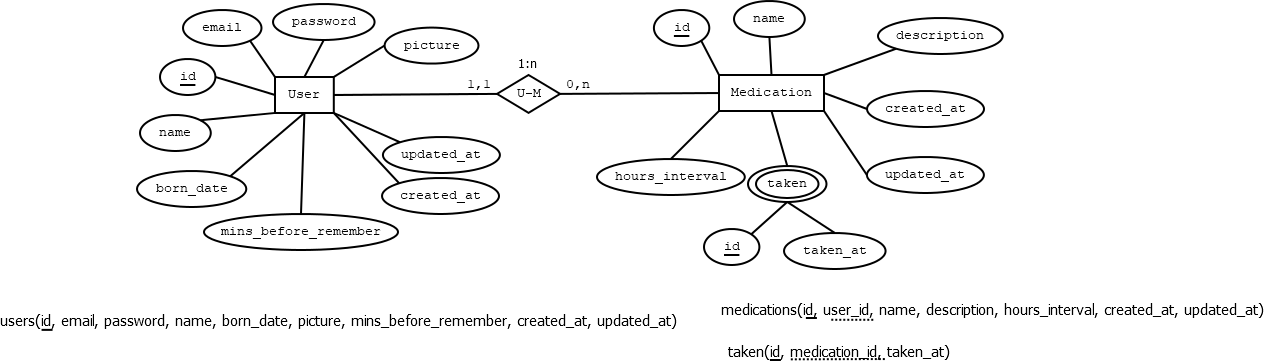
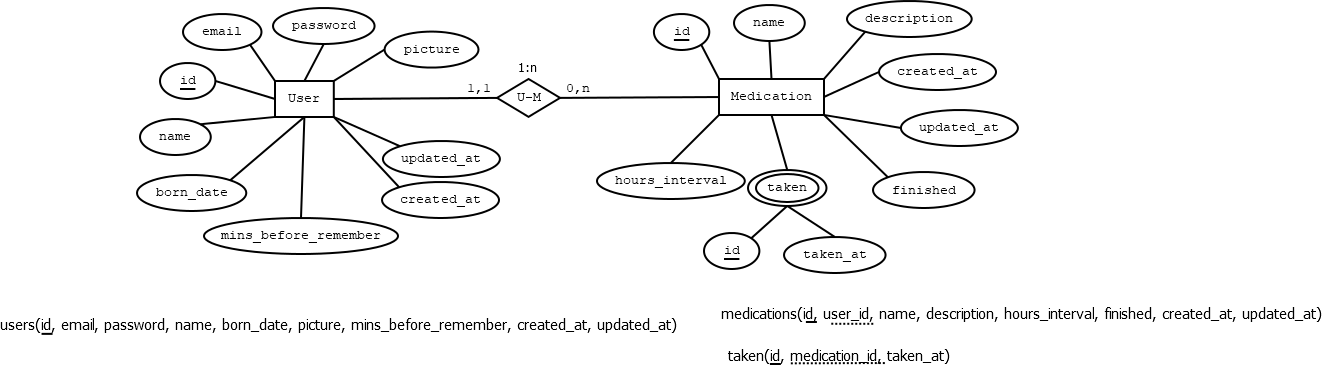
adding medication finished field

Changed region(s): [[0.0917, 0.0, 0.7947, 0.7618], [0.0, 0.8227, 1.0, 0.9141], [0.5502, 0.9446, 0.7641, 1.0]]

diff --git a/MiMedicacion/src/main/java/com/miguel/mimedicacion/dao/mysql/MedicationDAOImpl.java b/MiMedicacion/src/main/java/com/miguel/mimedicacion/dao/mysql/MedicationDAOImpl.java
@@ -24,7 +24,7 @@ public class MedicationDAOImpl implements MedicationDAO {
     private static final String ALLFROMAUSER = "SELECT * FROM medications WHERE user_id = ?";
     private static final String INSERT = "INSERT INTO medications(user_id, name, description, hours_interval) values(?,?,?,?)";
     private static final String UPDATE = "UPDATE medications "+
-            "SET name = ?, description = ?, hours_interval = ? WHERE id = ?";
+            "SET name = ?, description = ?, hours_interval = ?, finished = ? WHERE id = ?";
     private static final String DELETE = "DELETE FROM medications WHERE id = ?";
     
     // DB
@@ -55,6 +55,7 @@ public class MedicationDAOImpl implements MedicationDAO {
                 med.setName(rs.getString("name"));
                 med.setDescription(rs.getString("description"));
                 med.setHours_interval(rs.getInt("hours_interval"));
+                med.setFinished(rs.getBoolean("finished"));
                 med.setCreated_at(rs.getTimestamp("created_at"));
                 med.setUpdated_at(rs.getTimestamp("updated_at"));
             }
@@ -89,6 +90,7 @@ public class MedicationDAOImpl implements MedicationDAO {
                 med.setName(rs.getString("name"));
                 med.setDescription(rs.getString("description"));
                 med.setHours_interval(rs.getInt("hours_interval"));
+                med.setFinished(rs.getBoolean("finished"));
                 med.setCreated_at(rs.getTimestamp("created_at"));
                 med.setUpdated_at(rs.getTimestamp("updated_at"));
                 meds.add(med);
@@ -117,6 +119,7 @@ public class MedicationDAOImpl implements MedicationDAO {
                 med.setName(rs.getString("name"));
                 med.setDescription(rs.getString("description"));
                 med.setHours_interval(rs.getInt("hours_interval"));
+                med.setFinished(rs.getBoolean("finished"));
                 med.setCreated_at(rs.getTimestamp("created_at"));
                 med.setUpdated_at(rs.getTimestamp("updated_at"));
                 meds.add(med);
@@ -144,6 +147,7 @@ public class MedicationDAOImpl implements MedicationDAO {
             o.getName(),
             o.getDescription(),
             o.getHours_interval(),
+            o.isFinished(),
             o.getId()
         }) > 0;
     }

diff --git a/MiMedicacion/src/main/java/com/miguel/mimedicacion/resources/MedicationResource.java b/MiMedicacion/src/main/java/com/miguel/mimedicacion/resources/MedicationResource.java
@@ -213,7 +213,7 @@ public class MedicationResource {
     @Produces(MediaType.APPLICATION_JSON)
     public Response update(@HeaderParam("Authorization") String token, @PathParam("id") int id,
             @FormParam("name") String name, @FormParam("description") String description,
-            @FormParam("hours_interval") int hours_interval){
+            @FormParam("hours_interval") int hours_interval, @FormParam("finished") Boolean finished){
         
         User user;
         Medication med = null;
@@ -259,6 +259,7 @@ public class MedicationResource {
         if(name != null) med.setName(name.trim());
         if(description != null) med.setDescription(description.trim());
         if(hours_interval > 0) med.setHours_interval(hours_interval);
+        if(finished != null) med.setFinished(finished);
         
         if(!mdi.update(med)){
             return Response

diff --git a/MiMedicacion/src/main/java/com/miguel/mimedicacion/models/Medication.java b/MiMedicacion/src/main/java/com/miguel/mimedicacion/models/Medication.java
@@ -19,6 +19,7 @@ public class Medication {
     private String name;
     private String description;
     private int hours_interval;
+    private boolean finished;
     private Timestamp created_at;
     private Timestamp updated_at;
     
@@ -90,6 +91,14 @@ public class Medication {
         return created_at.toLocalDateTime();
     }
 
+    public boolean isFinished() {
+        return finished;
+    }
+
+    public void setFinished(boolean finished) {
+        this.finished = finished;
+    }
+    
     public void setCreated_at(Timestamp created_at) {
         this.created_at = created_at;
     }
